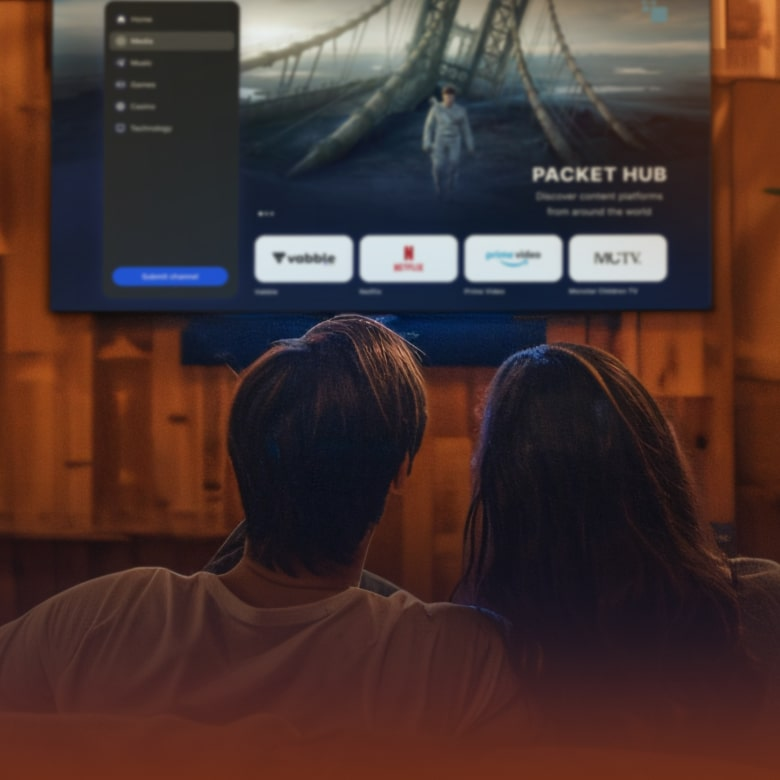
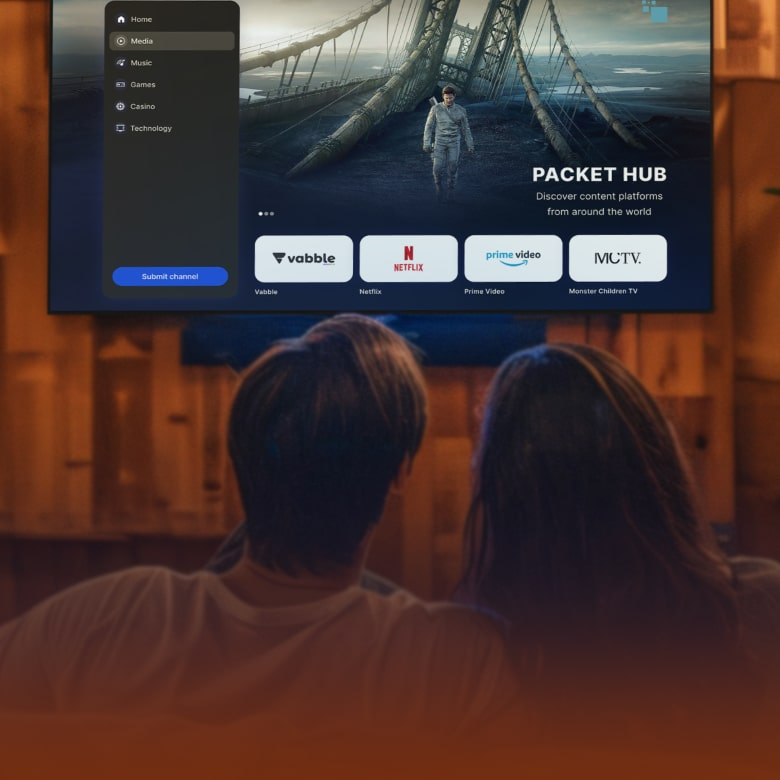
Solve mobile delay transition

diff --git a/src/components/TransitionGradient.tsx b/src/components/TransitionGradient.tsx
@@ -1,4 +1,4 @@
-import React from 'react';
+import React, { useEffect, useState } from 'react';
 import { useTransitionAnimation } from '../context/TransitionAnimationContext/TransitionAnimationContext';
 
 interface TransitionGradientProps {
@@ -7,6 +7,30 @@ interface TransitionGradientProps {
 
 const TransitionGradient: React.FC<TransitionGradientProps> = () => {
     const { activeIndex, isTransitioning, nextIndex, category } = useTransitionAnimation();
+    const [isInitialized, setIsInitialized] = useState(false);
+    const [isMobile, setIsMobile] = useState(false);
+
+    useEffect(() => {
+        const timer = setTimeout(() => {
+            setIsInitialized(true);
+        }, 100);
+        return () => clearTimeout(timer);
+    }, [category]);
+
+    useEffect(() => {
+        const handleResize = () => {
+            setIsMobile(window.innerWidth < 768);
+        };
+
+        // Initial check
+        handleResize();
+
+        // Add event listener
+        window.addEventListener('resize', handleResize);
+
+        // Cleanup
+        return () => window.removeEventListener('resize', handleResize);
+    }, []);
 
     const getGradientsByCategory = (category: string | null): string[][] => {
         switch (category) {
@@ -50,8 +74,8 @@ const TransitionGradient: React.FC<TransitionGradientProps> = () => {
             default:
                 return [
                     ['#090D23', '#090D23', '#090D23'],
-                    ['#611113', '#611113', '#611113'],
-                    ['#177CCF', '#177CCF', '#177CCF']
+                    ['#621916', '#621916', '#621916'],
+                    ['#122C7D', '#122C7D', '#122C7D']
                 ];
         }
     };
@@ -60,12 +84,23 @@ const TransitionGradient: React.FC<TransitionGradientProps> = () => {
     const currentGradient = gradients[activeIndex];
     const nextGradient = gradients[nextIndex];
 
+    const getTransformValue = () => {
+        const translateY = isMobile ? '50%' : '20%';
+        const scale = isInitialized ? 1.2 : 0.8;
+        return `translateX(-50%) translateY(${translateY}) scale(${scale})`;
+    };
+
+
     const baseStyle = {
+        position: 'absolute' as const,
         zIndex: 1,
         left: '50%',
-        transform: 'translateX(-50%)',
-        width: '180%',
-        transition: 'all 1000ms ease-in-out',
+        transform: getTransformValue(),
+        width: '150%',
+        transition: isInitialized ? 'all 800ms ease-in-out' : 'none',
+        borderRadius: '50%',
+        mixBlendMode: 'normal' as const,
+        willChange: 'transform, opacity, filter',
     };
 
     return (
@@ -125,7 +160,7 @@ const TransitionGradient: React.FC<TransitionGradientProps> = () => {
             />
             <div
                 key={`next-3-${nextIndex}`}
-                className='absolute w-screen flex-shrink-0 md:bottom-[-315px] md:h-[429px] h-[200px] bottom-[0px]'
+                className='absolute w-screen flex-shrink-0 md:bottom-[-315px] md:h-[429px] h-[400px] bottom-[0px]'
                 style={{
                     ...baseStyle,
                     background: nextGradient[2],

diff --git a/src/layouts/CategoryOverviewLayout.tsx b/src/layouts/CategoryOverviewLayout.tsx
@@ -1,4 +1,4 @@
-import React from 'react';
+import React, { useEffect, useState, useCallback } from 'react';
 import MenuCategory from '../components/Menu/Menu';
 import HeroContainer from '../components/Hero/HeroContainer';
 import MobileMenu from '../components/Menu/MobileMenu';
@@ -9,8 +9,37 @@ interface CategoryOverviewLayout {
 }
 
 const CategoryOverviewLayout: React.FC<CategoryOverviewLayout> = ({ children }) => {
+    const [hasScrolled, setHasScrolled] = useState(false);
+
+    const handleScroll = useCallback(() => {
+        // Only execute on md screens and above (768px is Tailwind's md breakpoint)
+        if (window.innerWidth < 800) return;
+
+        const scrollPosition = window.scrollY;
+
+        // Reset states when user scrolls back to top
+        if (scrollPosition === 0) {
+            setHasScrolled(false);
+            return;
+        }
+
+        // Trigger scroll down when user starts scrolling
+        if (!hasScrolled && scrollPosition > 50) {
+            setHasScrolled(true);
+            window.scrollTo({
+                top: 500,
+                behavior: 'smooth'
+            });
+        }
+    }, [hasScrolled]);
+
+    useEffect(() => {
+        window.addEventListener('scroll', handleScroll);
+        return () => window.removeEventListener('scroll', handleScroll);
+    }, [handleScroll]);
+
     return (
-        <CategoryBgTransition >
+        <CategoryBgTransition>
             {/* Main scrollable container */}
             <div className="flex-grow relative">
                 {/* Hero Container */}
@@ -24,10 +53,12 @@ const CategoryOverviewLayout: React.FC<CategoryOverviewLayout> = ({ children }) 
                         <div className="grid md:grid-cols-[300px_1fr] md:gap-10">
                             {/* Menu section */}
                             <div className="md:block">
-                                <div className='md:hidden  p-4 md:p-0 flex justify-end mt-8'>
+                                <div className="md:hidden p-4 md:p-0 flex justify-end mt-8">
                                     <MobileMenu />
                                 </div>
-                                <div className="md:sticky md:top-4 md:max-h-[800px] max-h-[380px] h-screen">
+                                <div 
+                                    className={`md:sticky md:top-4 md:max-h-[800px] max-h-[380px] h-screen transition-transform duration-1000 ease-in-out`}
+                                >
                                     <MenuCategory />
                                 </div>
                             </div>

diff --git a/src/components/Hero/HeroImage.tsx b/src/components/Hero/HeroImage.tsx
@@ -8,7 +8,7 @@ const HeroImage: React.FC = () => {
 
     useEffect(() => {
         const checkMobile = () => {
-            setIsMobile(window.innerWidth < 450);
+            setIsMobile(window.innerWidth < 500);
         };
 
         checkMobile();
@@ -41,7 +41,18 @@ const HeroImage: React.FC = () => {
         }
     };
 
+    const preloadImages = (images: string[]) => {
+        images.forEach((src) => {
+            const img = new Image();
+            img.src = src;
+        });
+    };
+
     const images = getImagesByCategory(category);
+
+    useEffect(() => {
+        preloadImages(images);
+    }, [images]);
 
     if (!images || images.length === 0) return null;
 
@@ -61,8 +72,8 @@ const HeroImage: React.FC = () => {
     const nextImageIndex = nextIndex % images.length;
 
     const transitionStyle = {
-        transition: `opacity ${TRANSITION_DURATION}ms ease-in-out`
-    };
+		transition: `opacity ${TRANSITION_DURATION}ms ease-in-out`
+	};
 
     return (
         <div className="relative h-[460px] md:h-full w-full">
